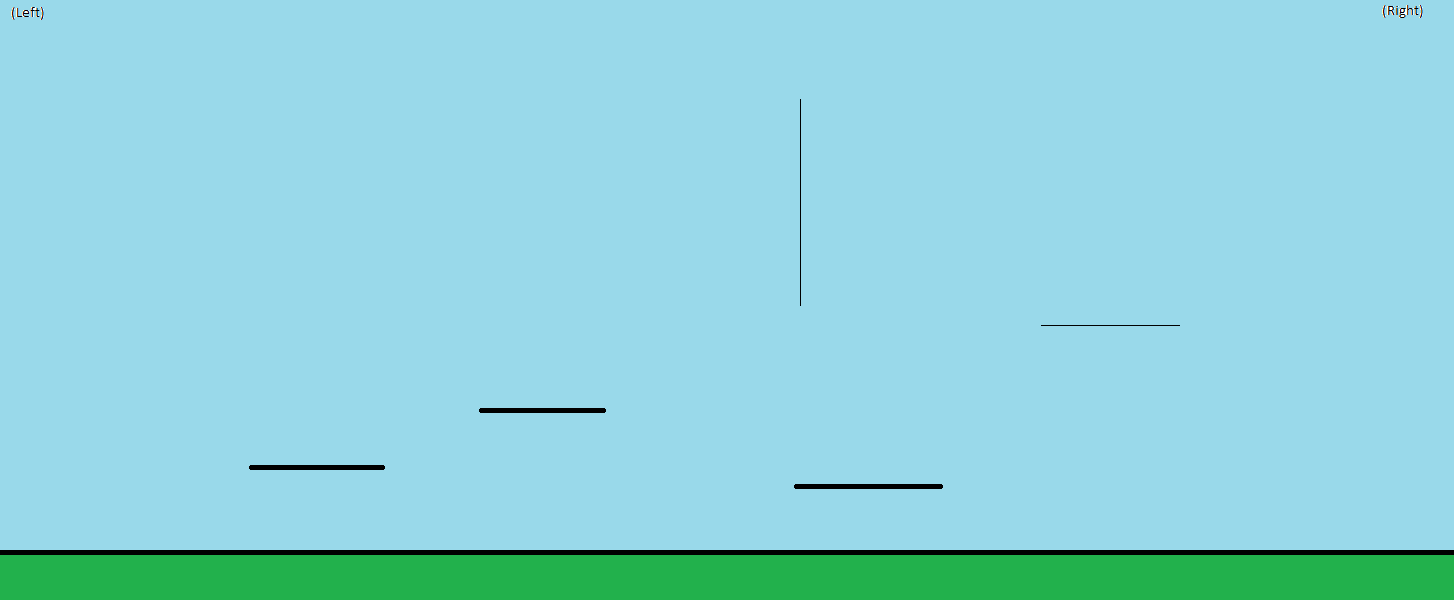
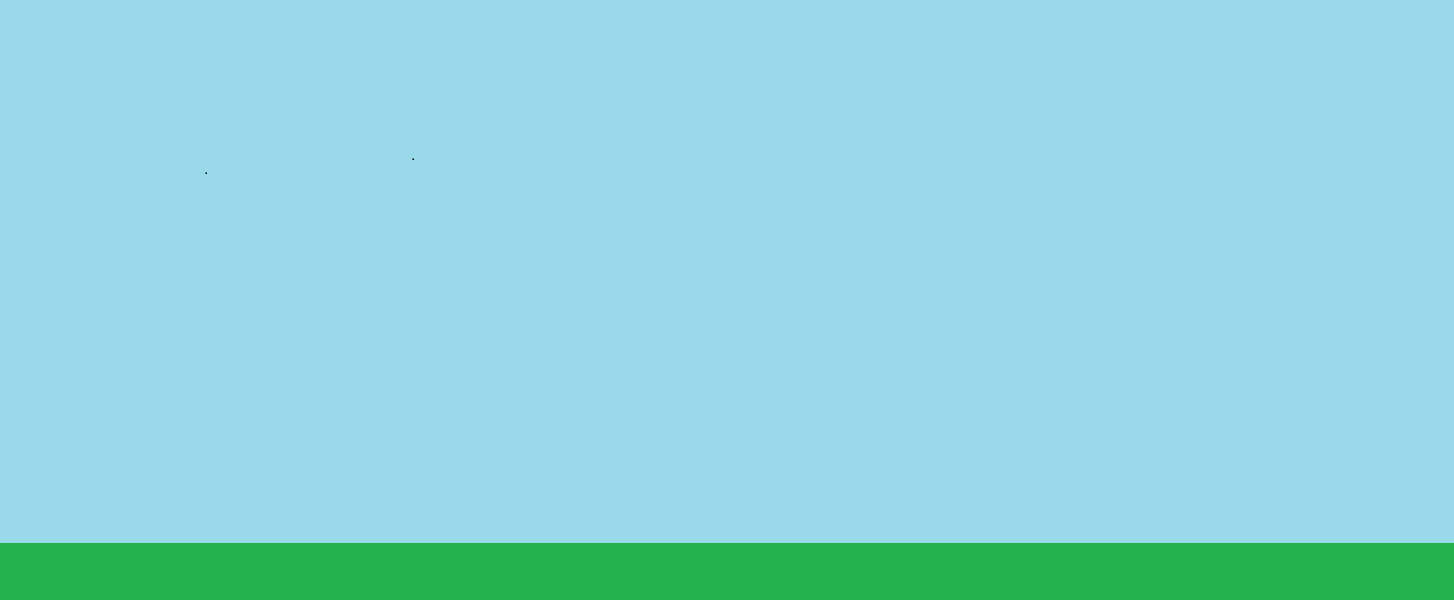
feat: Add demo "functionality"
Added a dummy fireball and enemy
Added inputs to hide/show the player to represent dying

diff --git a/public/main.js b/public/main.js
@@ -6,20 +6,30 @@
 const MAX_WIDTH = 1454;
 const CANVAS_WIDTH = 800;
 const CANVAS_HEIGHT = 600;
-const SCROLL_PERCENT = 0.20;
+const SCROLL_PERCENT = 0.2;
 const MIN_SCROLL = -(MAX_WIDTH - CANVAS_WIDTH);
 const SCROLL_DELTA = 3;
 
 const LEFT_SCROLL_BORDER = CANVAS_WIDTH * SCROLL_PERCENT;
 const RIGHT_SCROLL_BORDER = CANVAS_WIDTH - LEFT_SCROLL_BORDER;
 
-let player, cursors
-let bg, platforms;
+let player, cursors, enemyCursors;
+let bg, platforms, fireEvent;
+
+// this implementation of firing is not very good & should change
+// just keeping it simple right now for the demo
+let playerFiring = false;
+let playerFacing = 1;
 
 function preload() {
     this.load.image('bg', 'assets/scrolltest.png');
+    this.load.image('fireball', 'assets/fireball.png');
     this.load.spritesheet('dude',
         'assets/dude.png',
+        { frameWidth: 32, frameHeight: 48 }
+    );
+    this.load.spritesheet('antidude',
+        'assets/antidude.png',
         { frameWidth: 32, frameHeight: 48 }
     );
 }
@@ -27,14 +37,23 @@ function preload() {
 function create() {
     cursors = this.input.keyboard.createCursorKeys();
 
+    // for demo purposes
+    cursors.hide = this.input.keyboard.addKey(Phaser.Input.Keyboard.KeyCodes.H);
+    cursors.show = this.input.keyboard.addKey(Phaser.Input.Keyboard.KeyCodes.G);
+    enemyCursors = {
+        left: this.input.keyboard.addKey(Phaser.Input.Keyboard.KeyCodes.A),
+        right: this.input.keyboard.addKey(Phaser.Input.Keyboard.KeyCodes.D),
+        hide: this.input.keyboard.addKey(Phaser.Input.Keyboard.KeyCodes.W),
+    };
+
     // initialize background
     bg = this.add.image(0, 0, 'bg');
     bg.setOrigin(0, 0);
 
     // initialize platforms
-    let platformDefs = [
+    const platformDefs = [
         // ground platform
-        {x: 0, y: 550, w: CANVAS_WIDTH, h: 1}
+        {x: 0, y: 575, w: CANVAS_WIDTH, h: 1}
     ];
 
     platforms = this.physics.add.staticGroup();
@@ -54,66 +73,120 @@ function create() {
     player.setBounce(0.2);
     player.setCollideWorldBounds(true);
 
+    // demo enemy
+    enemy = this.physics.add.sprite(700, 450, 'antidude');
+    enemy.setOrigin(0, 0);
+    enemy.setBounce(0.2);
+    enemy.setCollideWorldBounds(true);
+
     platforms.refresh();
     this.physics.add.collider(player, platforms);
+    this.physics.add.collider(enemy, platforms);
 
-    // initialize animations
-    this.anims.create({
-        key: 'left',
-        frames: this.anims.generateFrameNumbers('dude', { start: 0, end: 3 }),
-        frameRate: 10,
-        repeat: -1
-    });
+    const animSprites = ['dude', 'antidude'];
+    for (const el of animSprites) {
+        // initialize animations
+        this.anims.create({
+            key: `${el}_left`,
+            frames: this.anims.generateFrameNumbers(el, { start: 0, end: 3 }),
+            frameRate: 10,
+            repeat: -1
+        });
+    
+        this.anims.create({
+            key: `${el}_turn`,
+            frames: [ { key: el, frame: 4 } ],
+            frameRate: 20
+        });
+    
+        this.anims.create({
+            key: `${el}_right`,
+            frames: this.anims.generateFrameNumbers(el, { start: 5, end: 8 }),
+            frameRate: 10,
+            repeat: -1
+        });
+    }
 
-    this.anims.create({
-        key: 'turn',
-        frames: [ { key: 'dude', frame: 4 } ],
-        frameRate: 20
-    });
+    fireEvent = this.time.addEvent({
+       loop: true,
+       delay: 1000,
+       callback:  function() {
+            if (!playerFiring) return;
 
-    this.anims.create({
-        key: 'right',
-        frames: this.anims.generateFrameNumbers('dude', { start: 5, end: 8 }),
-        frameRate: 10,
-        repeat: -1
+            const fireball = this.physics.add.sprite(player.x, player.y, 'fireball');
+            fireball.setOrigin(0, 0);
+            //fireball.setCollideWorldBounds(true);
+            fireball.lifespan = 10;
+            fireball.setVelocityX(playerFacing * 200);
+            fireball.setImmovable(false);
+
+            fireball.body.setAllowGravity(false);
+
+            this.time.addEvent({
+                delay: 5000,
+                callback: () => fireball.destroy()
+            })
+        },
+        callbackScope: this
     });
 }
 
 function update() {
     if (cursors.left.isDown) {
+        playerFacing = -1;
         player.setVelocityX(-160);
-        player.anims.play('left', true);
+        player.anims.play('dude_left', true);
 
         // handling it with a scroll border right now, but it should ultimately be a "region"
         // region implementation should help avoid player's choppiness while scrolling
         if (player.x <= LEFT_SCROLL_BORDER && bg.x < 0) {
             bg.x += SCROLL_DELTA;
             player.x += SCROLL_DELTA;
-        }
 
-        if (bg.x > 0) {
-            bg.x = 0;
+            if (bg.x > 0) bg.x = 0;
         }
-    }
-    else if (cursors.right.isDown) {
+    } else if (cursors.right.isDown) {
+        playerFacing = 1;
         player.setVelocityX(160);
-        player.anims.play('right', true);
+        player.anims.play('dude_right', true);
 
         if (player.x >= RIGHT_SCROLL_BORDER && bg.x > MIN_SCROLL) {
             bg.x -= SCROLL_DELTA;
             player.x -= SCROLL_DELTA;
         }
 
-        if (bg.x < MIN_SCROLL) {
-            bg.x = MIN_SCROLL;
-        }
+        if (bg.x < MIN_SCROLL) bg.x = MIN_SCROLL;
     } else {
         player.setVelocityX(0);
-        player.anims.play('turn');
+        player.anims.play('dude_turn');
     }
 
     if (cursors.up.isDown && player.body.touching.down) {
         player.setVelocityY(-300);
+    }
+
+    // for demo purposes
+    playerFiring = cursors.space.isDown;
+    if (cursors.hide.isDown) {
+        player.setVisible(false);
+    } else if (cursors.show.isDown) {
+        player.setVisible(true);
+    }
+
+    // simulating an enemy by controlling it
+    if (enemyCursors.left.isDown) {
+        enemy.setVelocityX(-160);
+        enemy.anims.play('antidude_left', true);
+    } else if (enemyCursors.right.isDown) {
+        enemy.setVelocityX(160);
+        enemy.anims.play('antidude_right', true);
+    } else {
+        enemy.setVelocityX(0);
+        enemy.anims.play('antidude_turn');
+    }
+
+    if (enemyCursors.hide.isDown) {
+        enemy.setVisible(false);
     }
 }
 
@@ -124,7 +197,7 @@ const config = {
     physics: {
         default: 'arcade',
         arcade: {
-            debug: true,
+            debug: false,
             gravity: { y: 200 }
         }
     },
